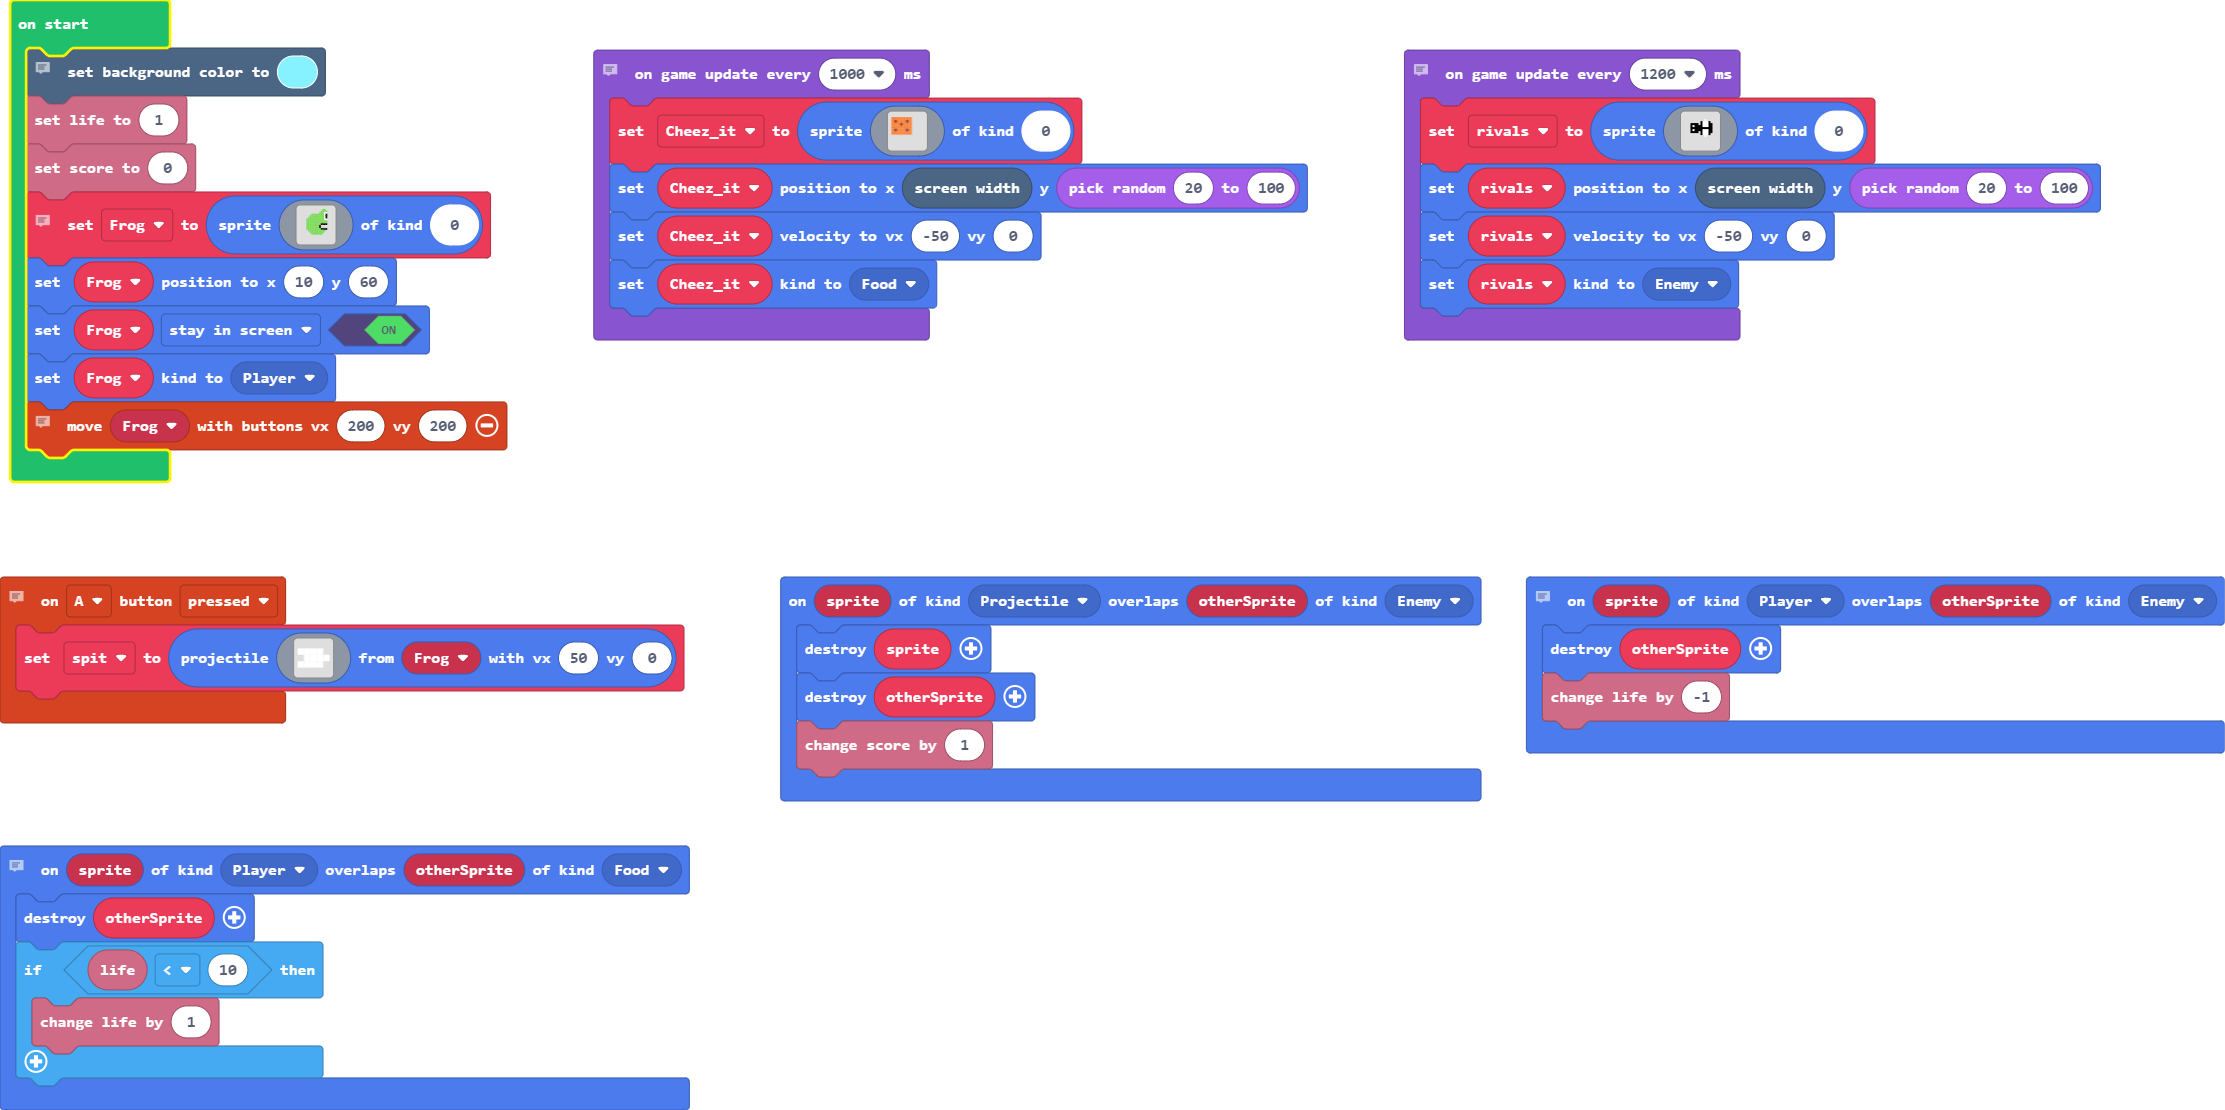
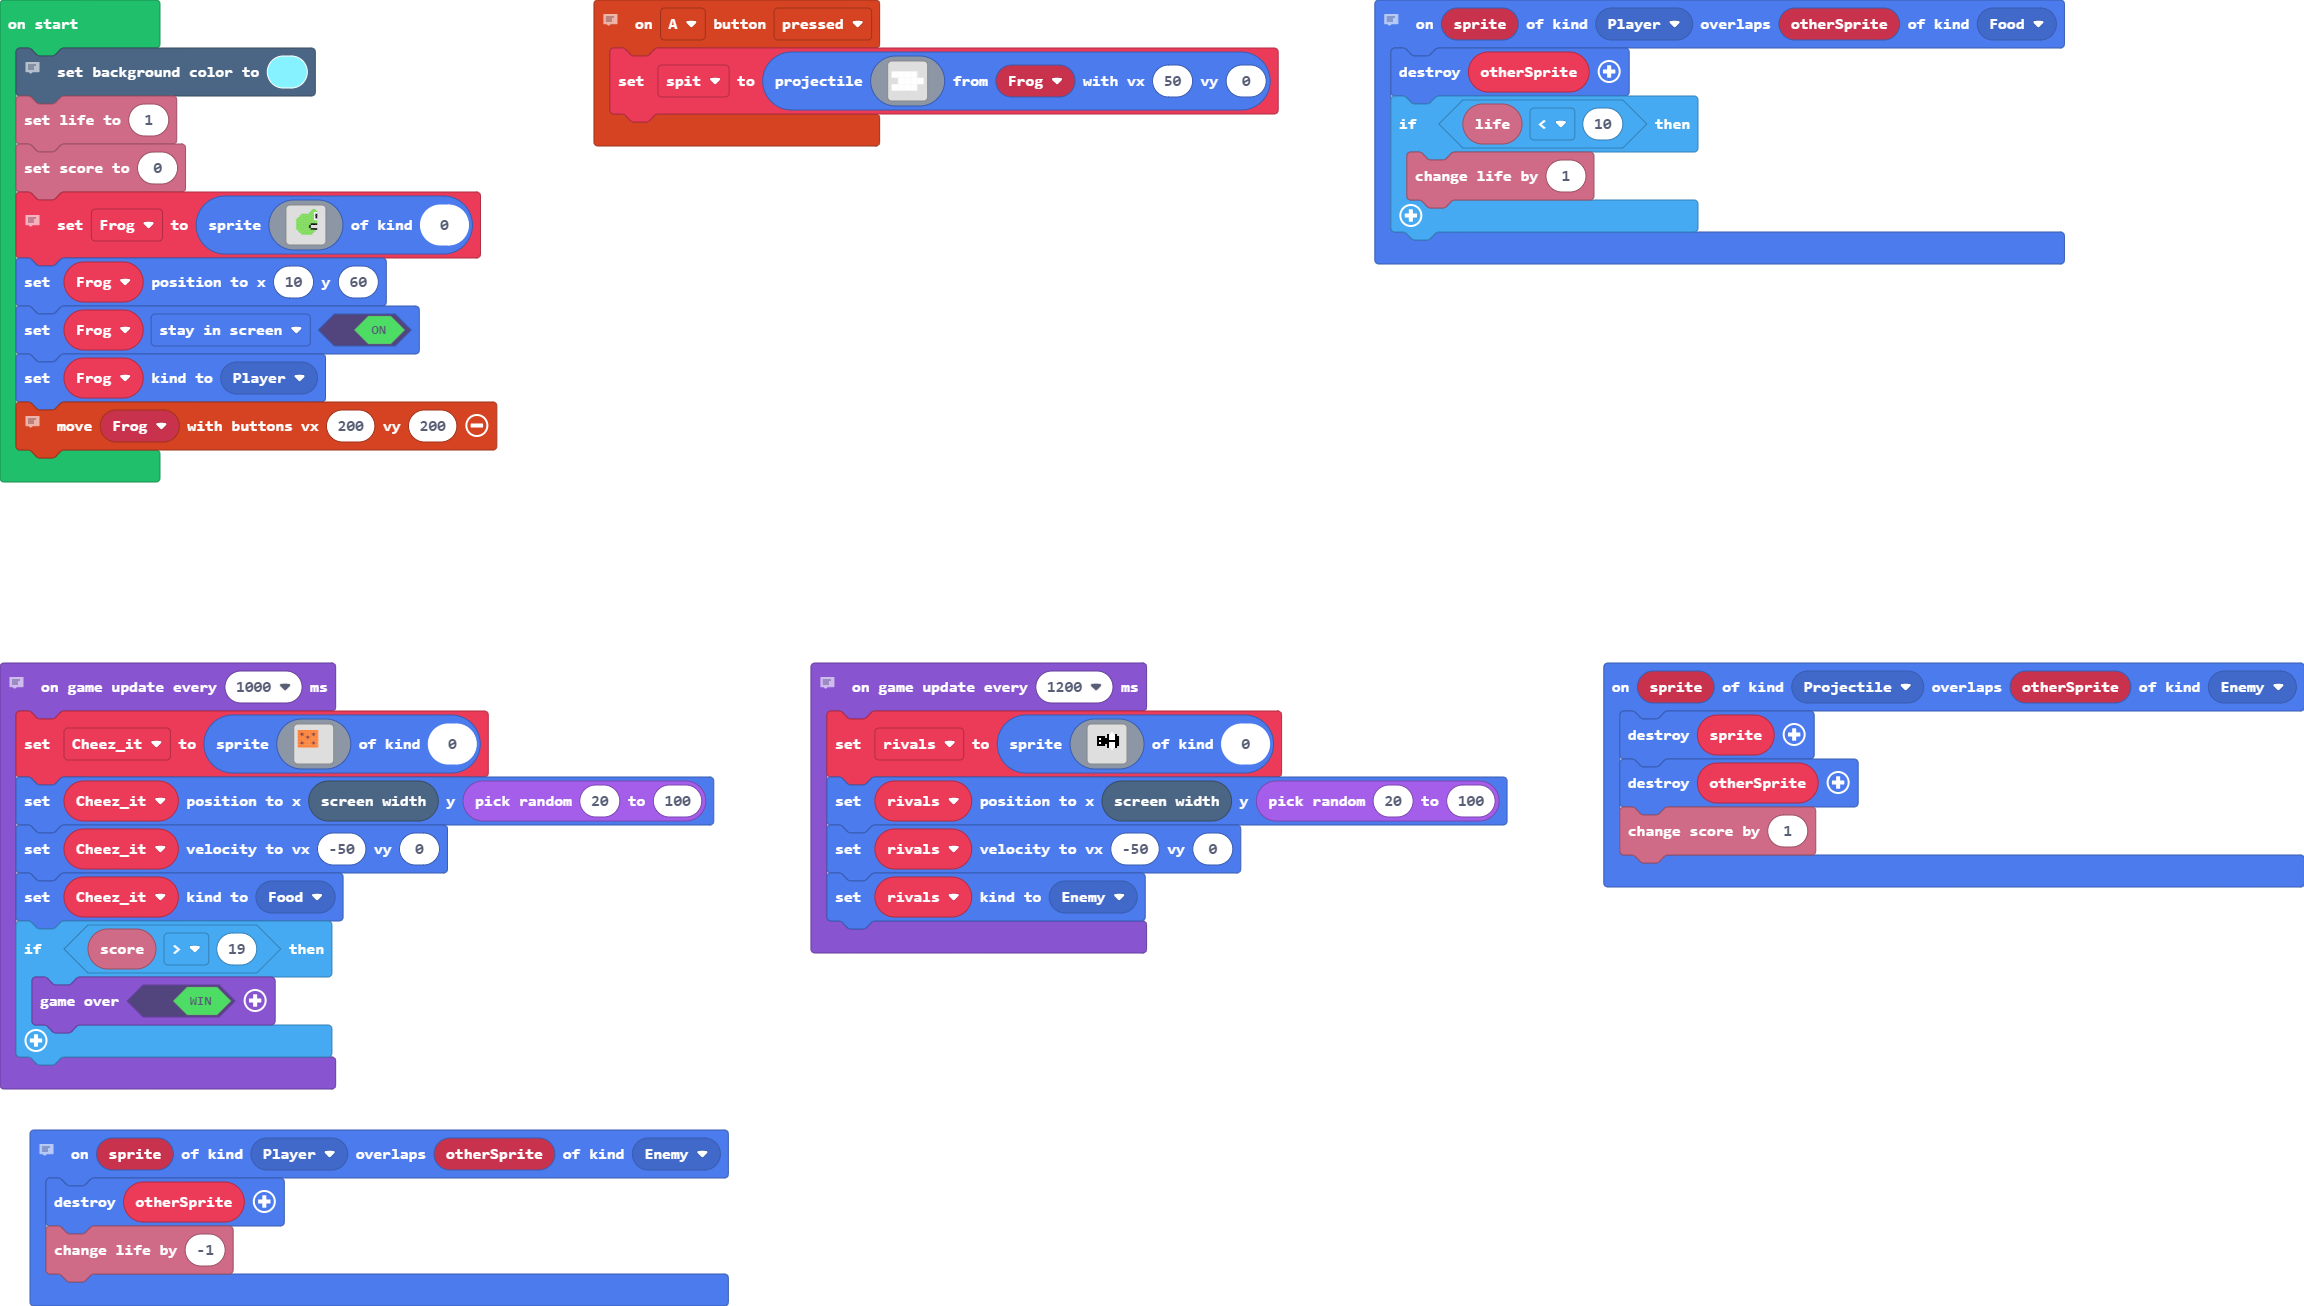
Update pxt.json, main.blocks, main.ts, main.py, tilemap.g.jres, tilemap.g.ts

diff --git a/main.ts b/main.ts
@@ -1,107 +1,105 @@
-//  killing rivals
-controller.A.onEvent(ControllerButtonEvent.Pressed, function on_a_pressed() {
-    
+// killing rivals
+controller.A.onEvent(ControllerButtonEvent.Pressed, function () {
     spit = sprites.createProjectileFromSprite(img`
-            . . . . . 
-                    1 1 1 1 . 
-                    . 1 1 1 1 
-                    1 1 1 1 . 
-                    . . . . .
+        . . . . . 
+        1 1 1 1 . 
+        . 1 1 1 1 
+        1 1 1 1 . 
+        . . . . . 
         `, Frog, 50, 0)
 })
-//  eat cheez it
-sprites.onOverlap(SpriteKind.Player, SpriteKind.Food, function on_on_overlap(sprite: Sprite, otherSprite: Sprite) {
+// eat cheez it
+sprites.onOverlap(SpriteKind.Player, SpriteKind.Food, function (sprite, otherSprite) {
     otherSprite.destroy()
     if (info.life() < 10) {
         info.changeLifeBy(1)
     }
-    
 })
-sprites.onOverlap(SpriteKind.Projectile, SpriteKind.Enemy, function on_on_overlap2(sprite: Sprite, otherSprite: Sprite) {
+sprites.onOverlap(SpriteKind.Projectile, SpriteKind.Enemy, function (sprite, otherSprite) {
     sprite.destroy()
     otherSprite.destroy()
     info.changeScoreBy(1)
 })
-//  lose life
-sprites.onOverlap(SpriteKind.Player, SpriteKind.Enemy, function on_on_overlap3(sprite: Sprite, otherSprite: Sprite) {
+// lose life
+sprites.onOverlap(SpriteKind.Player, SpriteKind.Enemy, function (sprite, otherSprite) {
     otherSprite.destroy()
     info.changeLifeBy(-1)
 })
-let rivals : Sprite = null
-let Cheez_it : Sprite = null
-let spit : Sprite = null
-let Frog : Sprite = null
-//  setup
+let rivals: Sprite = null
+let Cheez_it: Sprite = null
+let spit: Sprite = null
+let Frog: Sprite = null
+// setup
 scene.setBackgroundColor(9)
 info.setLife(1)
 info.setScore(0)
-info.startCountdown(20)
-//  Frog
+// Frog
 Frog = sprites.create(img`
-        . . . . . . . . . . . . . . 7 7 . . . . 
-            . . . . . . . . . . . . . 7 7 7 7 . . . 
-            . . . . . . . . . . . . 7 7 7 1 1 . . . 
-            . . . . . . . 7 7 7 7 7 7 7 7 1 f . . . 
-            . . . . . . 7 7 7 7 7 7 7 7 7 1 f . . . 
-            . . . . . 7 7 7 7 7 7 7 7 7 7 1 f . . . 
-            . . . . 7 7 7 7 7 7 7 7 7 7 7 1 1 . . . 
-            . . . . 7 7 7 7 7 7 7 7 7 7 7 7 7 . . . 
-            . . . . 7 7 7 7 7 7 7 7 7 7 7 7 7 . . . 
-            . . . . 7 7 7 7 7 7 7 7 7 f f f f . . . 
-            . . . . 7 7 7 7 7 7 7 7 f . . . . . . . 
-            . . . . 7 7 7 7 7 7 7 7 f . . . . . . . 
-            . . . . 7 7 7 7 7 7 7 7 7 f f f f . . . 
-            . . . . . 7 7 7 7 7 7 7 7 7 7 7 . . . . 
-            . . . . . . 7 7 7 7 7 7 7 7 7 . . . . . 
-            . . . . . . . 7 7 7 7 7 7 7 . . . . . . 
-            . . . . . . . . . . . . . . . . . . . . 
-            . . . . . . . . . . . . . . . . . . . . 
-            . . . . . . . . . . . . . . . . . . . . 
-            . . . . . . . . . . . . . . . . . . . .
+    . . . . . . . . . . . . . . 7 7 . . . . 
+    . . . . . . . . . . . . . 7 7 7 7 . . . 
+    . . . . . . . . . . . . 7 7 7 1 1 . . . 
+    . . . . . . . 7 7 7 7 7 7 7 7 1 f . . . 
+    . . . . . . 7 7 7 7 7 7 7 7 7 1 f . . . 
+    . . . . . 7 7 7 7 7 7 7 7 7 7 1 f . . . 
+    . . . . 7 7 7 7 7 7 7 7 7 7 7 1 1 . . . 
+    . . . . 7 7 7 7 7 7 7 7 7 7 7 7 7 . . . 
+    . . . . 7 7 7 7 7 7 7 7 7 7 7 7 7 . . . 
+    . . . . 7 7 7 7 7 7 7 7 7 f f f f . . . 
+    . . . . 7 7 7 7 7 7 7 7 f . . . . . . . 
+    . . . . 7 7 7 7 7 7 7 7 f . . . . . . . 
+    . . . . 7 7 7 7 7 7 7 7 7 f f f f . . . 
+    . . . . . 7 7 7 7 7 7 7 7 7 7 7 . . . . 
+    . . . . . . 7 7 7 7 7 7 7 7 7 . . . . . 
+    . . . . . . . 7 7 7 7 7 7 7 . . . . . . 
+    . . . . . . . . . . . . . . . . . . . . 
+    . . . . . . . . . . . . . . . . . . . . 
+    . . . . . . . . . . . . . . . . . . . . 
+    . . . . . . . . . . . . . . . . . . . . 
     `, 0)
 Frog.setPosition(10, 60)
 Frog.setFlag(SpriteFlag.StayInScreen, true)
 Frog.setKind(SpriteKind.Player)
-//  frog movement
+// frog movement
 controller.moveSprite(Frog, 200, 200)
-//  cheez it
-game.onUpdateInterval(1000, function on_update_interval() {
-    
+// cheez it
+game.onUpdateInterval(1000, function () {
     Cheez_it = sprites.create(img`
-            4 4 4 4 4 4 4 . . . . 
-                    4 e 4 4 4 e 4 . . . . 
-                    4 4 4 e 4 4 4 . . . . 
-                    4 4 4 4 4 4 4 . . . . 
-                    4 e 4 4 4 e 4 . . . . 
-                    4 4 4 4 4 4 4 . . . . 
-                    . . . . . . . . . . . 
-                    . . . . . . . . . . . 
-                    . . . . . . . . . . .
+        4 4 4 4 4 4 4 . . . . 
+        4 e 4 4 4 e 4 . . . . 
+        4 4 4 e 4 4 4 . . . . 
+        4 4 4 4 4 4 4 . . . . 
+        4 e 4 4 4 e 4 . . . . 
+        4 4 4 4 4 4 4 . . . . 
+        . . . . . . . . . . . 
+        . . . . . . . . . . . 
+        . . . . . . . . . . . 
         `, 0)
     Cheez_it.setPosition(scene.screenWidth(), randint(20, 100))
     Cheez_it.setVelocity(-50, 0)
     Cheez_it.setKind(SpriteKind.Food)
+    if (info.score() > 19) {
+        game.over(true)
+    }
 })
-//  rivals
-game.onUpdateInterval(1200, function on_update_interval2() {
-    
+// rivals
+game.onUpdateInterval(1200, function () {
     rivals = sprites.create(img`
-            . . . . . . . . . . . . . . . . 
-                    . . . . . . . . . . . . . . . . 
-                    . . . . . . . . . . 1 . . . . . 
-                    . . . . . . . . f 1 1 1 f . . . 
-                    . . . f f f f . f 1 1 1 f f . . 
-                    . . . f 1 f f f f 1 1 1 f f . . 
-                    . . . f f f f f f f f f f f . . 
-                    . . . f 1 f f f f 1 1 1 f f . . 
-                    . . . f f f f . f 1 1 1 f f . . 
-                    . . . . . . . . f 1 1 1 f . . . 
-                    . . . . . . . . . . 1 . . . . . 
-                    . . . . . . . . . . . . . . . . 
-                    . . . . . . . . . . . . . . . . 
-                    . . . . . . . . . . . . . . . . 
-                    . . . . . . . . . . . . . . . . 
-                    . . . . . . . . . . . . . . . .
+        . . . . . . . . . . . . . . . . 
+        . . . . . . . . . . . . . . . . 
+        . . . . . . . . . . 1 . . . . . 
+        . . . . . . . . f 1 1 1 f . . . 
+        . . . f f f f . f 1 1 1 f f . . 
+        . . . f 1 f f f f 1 1 1 f f . . 
+        . . . f f f f f f f f f f f . . 
+        . . . f 1 f f f f 1 1 1 f f . . 
+        . . . f f f f . f 1 1 1 f f . . 
+        . . . . . . . . f 1 1 1 f . . . 
+        . . . . . . . . . . 1 . . . . . 
+        . . . . . . . . . . . . . . . . 
+        . . . . . . . . . . . . . . . . 
+        . . . . . . . . . . . . . . . . 
+        . . . . . . . . . . . . . . . . 
+        . . . . . . . . . . . . . . . . 
         `, 0)
     rivals.setPosition(scene.screenWidth(), randint(20, 100))
     rivals.setVelocity(-50, 0)

diff --git a/tilemap.g.ts b/tilemap.g.ts
@@ -1,0 +1,7 @@
+// Auto-generated code. Do not edit.
+namespace myTiles {
+    //% fixedInstance jres blockIdentity=images._tile
+    export const transparency16 = image.ofBuffer(hex``);
+
+}
+// Auto-generated code. Do not edit.

diff --git a/main.py b/main.py
@@ -43,8 +43,6 @@ Frog: Sprite = None
 scene.set_background_color(9)
 info.set_life(1)
 info.set_score(0)
-info.start_countdown(20)
-
 # Frog
 Frog = sprites.create(img("""
         . . . . . . . . . . . . . . 7 7 . . . . 
@@ -93,6 +91,8 @@ def on_update_interval():
     Cheez_it.set_position(scene.screen_width(), randint(20, 100))
     Cheez_it.set_velocity(-50, 0)
     Cheez_it.set_kind(SpriteKind.food)
+    if info.score() > 5:
+        game.over(True)
 game.on_update_interval(1000, on_update_interval)
 
 # rivals
